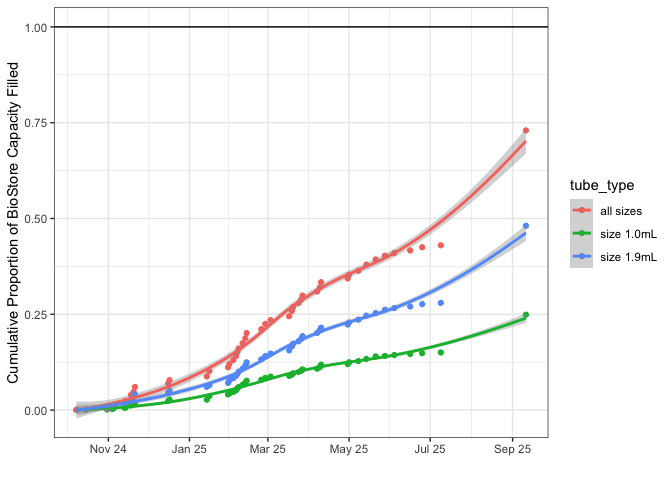
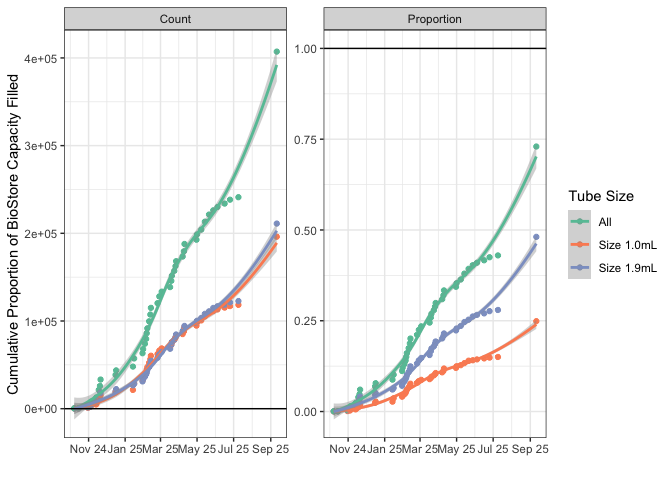
updating plots

diff --git a/README.md b/README.md
@@ -127,17 +127,7 @@ library(biostoreCapacity)
 
 #### Plot rate of accessioning over time:
 
-``` r
-library(ggplot2)
-ggplot(longifyReadHistorical(), aes(x = date, y = total, colour = tube_type)) +
-  geom_point() +
-  geom_smooth() +
-  theme_bw() +
-  ylab("Cumulative Tubes Submitted to BioStore") +
-  xlab("") +
-  scale_x_date(date_breaks = "2 month", date_labels = "%b %y")
-#> `geom_smooth()` using method = 'loess' and formula = 'y ~ x'
-```
+    #> `geom_smooth()` using method = 'loess' and formula = 'y ~ x'
 
 <img src="man/figures/README-plot_history-1.png" width="100%" />
 
@@ -147,43 +137,9 @@ This includes “pending” tubes, which are tubes that are still at the
 sites but will be shipped here eventually and should be counted towards
 the BioStore’s total inventory.
 
-``` r
-ggplot(longifyReadHistorical(total_or_prop = "prop", add_pending = TRUE), aes(x = date, y = total, colour = tube_type)) +
-  geom_point() +
-  geom_smooth() +
-  theme_bw() +
-  ylab("Cumulative Proportion of BioStore Capacity Filled") +
-  xlab("") +
-  scale_x_date(date_breaks = "2 month", date_labels = "%b %y") + 
-  geom_hline(yintercept = 1)
-#> `geom_smooth()` using method = 'loess' and formula = 'y ~ x'
-```
+    #> `geom_smooth()` using method = 'loess' and formula = 'y ~ x'
 
 <img src="man/figures/README-plot_history_prop-1.png" width="100%" />
-
-``` r
-library(plotly)
-#> 
-#> Attaching package: 'plotly'
-#> The following object is masked from 'package:ggplot2':
-#> 
-#>     last_plot
-#> The following object is masked from 'package:stats':
-#> 
-#>     filter
-#> The following object is masked from 'package:graphics':
-#> 
-#>     layout
-p <- plot_ly(data = iris, x = ~Sepal.Length, y = ~Petal.Length)
-
-htmlwidgets::saveWidget(config(p, showLink = T), "graph.html")
-#> No trace type specified:
-#>   Based on info supplied, a 'scatter' trace seems appropriate.
-#>   Read more about this trace type -> https://plotly.com/r/reference/#scatter
-#> No scatter mode specifed:
-#>   Setting the mode to markers
-#>   Read more about this attribute -> https://plotly.com/r/reference/#scatter-mode
-```
 
 ### Eric Koplin’s ARIMA model
 
